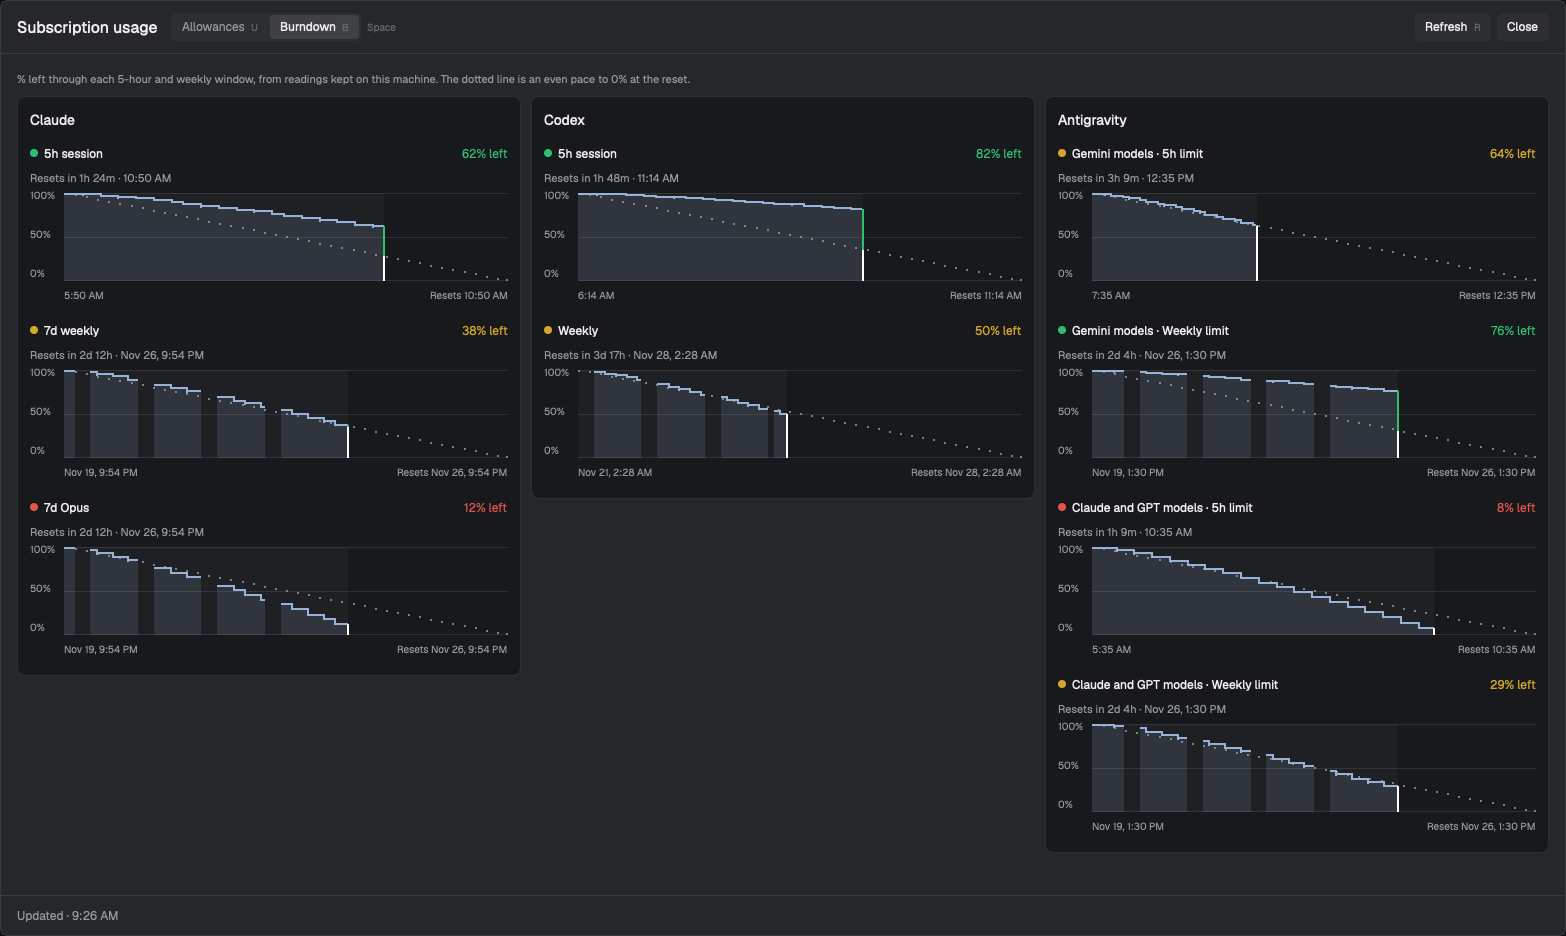
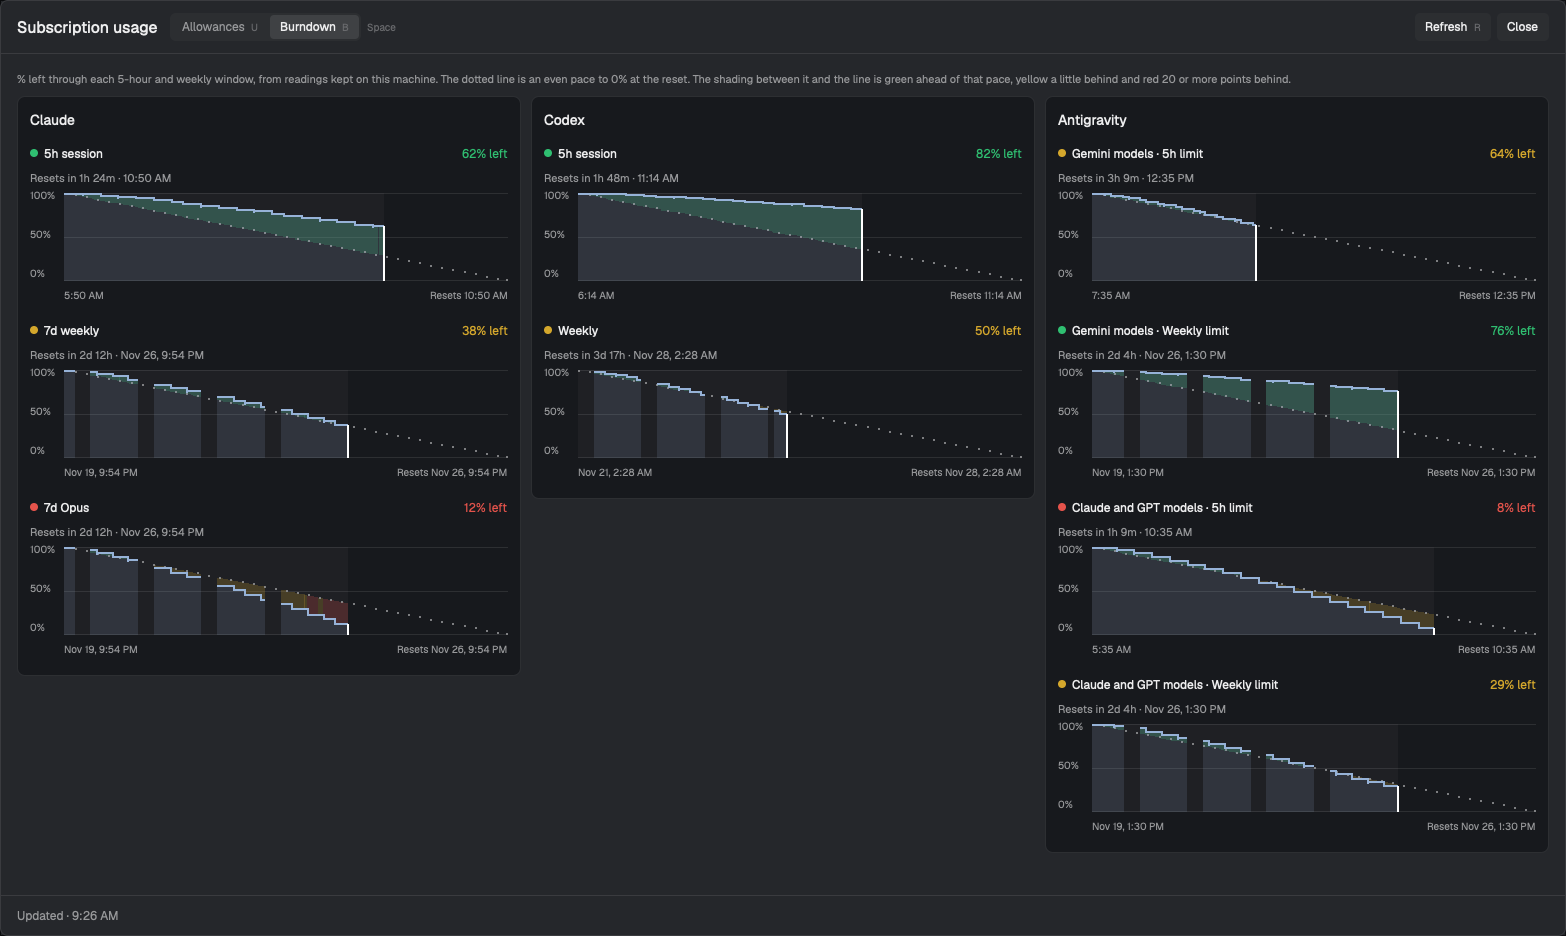
Shade the gap to an even pace in the burndown charts
Each chart now shades the area between the allowance line and the dotted
even-pace line across the time gone: green where allowance was ahead of
pace, yellow where it was less than 20 points behind, and red where it was
20 or more behind, the same margin as the traffic lights. Before, only the
current-time marker showed spare allowance, in green, and a shortfall
showed nothing. The marker is now plain white.

The README screenshot and the gallery preview's Burndown card are
re-rendered from the same sample readings and 9:26 AM clock, so only the
plots change.

diff --git a/herdr-app/mods/usage-monitor/burndown.js b/herdr-app/mods/usage-monitor/burndown.js
@@ -1,12 +1,13 @@
 // Burndown charts: % left over each 5-hour and weekly window, from the local history.
 //
 // GPUI has no paths, so the chart is boxes: a step line of 2px bars with a faint fill under it,
-// a dotted diagonal for an even pace from 100% at the window's start to 0% at its reset, a faint
-// tint over the time already gone, and a row of invisible columns that show the reading
-// and model activity under the pointer.
+// a dotted diagonal for an even pace from 100% at the window's start to 0% at its reset, a band
+// between the two that shades how far ahead or behind that pace each reading was, a faint tint
+// over the time already gone, and a row of invisible columns that show the reading and model
+// activity under the pointer.
 import { div } from "gpui-kit";
 import { h_flex, HoverCard, v_flex } from "gpui-base";
-import { light, lightColor } from "./pace.js";
+import { MARGIN, light, lightColor } from "./pace.js";
 import { localTime, timed } from "./time.js";
 
 const NAMES = {
@@ -22,6 +23,7 @@ const PACE_DOTS = 40;
 const COLUMNS = 48;
 // Narrowest a run is drawn, in % of the width, so a single reading still shows.
 const MIN_RUN = 0.4;
+const BAND_OPACITY = 0.22;
 
 const clamp = (value, lo, hi) => Math.max(lo, Math.min(hi, value));
 
@@ -76,6 +78,32 @@ function hoverColumns(t, b, activity, id, now) {
   });
 }
 
+// The gap between each reading and an even pace, shaded: green ahead of it, yellow a little
+// behind, red MARGIN or more points behind. Each run is cut at the hover columns' edges and
+// measured against the pace at each piece's middle, so the band steps down beside the dots.
+function gapBand(t, b, x, y) {
+  const span = b.end - b.start;
+  if (span <= 0) return [];
+  const slice = span / COLUMNS;
+  const boxes = [];
+  for (const [from, to, left] of b.runs) {
+    for (let i = Math.floor((from - b.start) / slice); b.start + i * slice < to; i += 1) {
+      const a = Math.max(from, b.start + i * slice);
+      const z = Math.min(to, b.start + (i + 1) * slice);
+      if (z <= a) continue;
+      const even = pace(b, (a + z) / 2);
+      const top = y(Math.max(left, even));
+      const height = y(Math.min(left, even)) - top;
+      if (height < 1) continue;
+      const spare = left - even;
+      const level = spare >= 0 ? "untapped" : spare > -MARGIN ? "pace" : "tight";
+      boxes.push(div().absolute().left(`${x(a)}%`).w(`${x(z) - x(a)}%`).top(top).h(height)
+        .bg(lightColor(t, level)).opacity(BAND_OPACITY));
+    }
+  }
+  return boxes;
+}
+
 function plot(t, b, activity, id, now) {
   const { x, y } = scale(b);
   const line = t.accent;
@@ -87,6 +115,7 @@ function plot(t, b, activity, id, now) {
   for (const level of [0, 50, 100]) {
     marks.push(div().absolute().left(0).w_full().h(1).top(Math.min(PLOT - 1, y(level))).bg(t.border));
   }
+  marks.push(...gapBand(t, b, x, y));
   for (let i = 0; i <= PACE_DOTS; i += 1) {
     const share = i / PACE_DOTS;
     marks.push(div().absolute().size(2).rounded_full().bg(t.muted)
@@ -108,11 +137,7 @@ function plot(t, b, activity, id, now) {
   if (now < b.end) {
     // A white line at the present, from the current % left down to the bottom of the plot.
     const top = y(b.left);
-    // The part above the even-pace line is allowance that would go unused at this pace: green.
-    const paceY = clamp(y(pace(b, now)), top, PLOT);
-    const at = `${x(now)}%`;
-    marks.push(div().absolute().left(at).top(top).h(PLOT - top).w(2).ml(-1).bg("#ffffff"));
-    if (paceY > top) marks.push(div().absolute().left(at).top(top).h(paceY - top).w(2).ml(-1).bg(lightColor(t, "untapped")));
+    marks.push(div().absolute().left(`${x(now)}%`).top(top).h(PLOT - top).w(2).ml(-1).bg("#ffffff"));
   }
   marks.push(...hoverColumns(t, b, activity, id, now));
   return div().relative().flex_1().min_w(0).h(PLOT).children(marks)

diff --git a/burndown.test.ts b/burndown.test.ts
@@ -7,6 +7,7 @@ function element() {
     openDelay: null as number | null,
     closeDelay: null as number | null,
     items: [] as unknown[],
+    calls: [] as unknown[][],
     id(name: string) { this.name = name; return this; },
     content(content: unknown) { this.cardContent = content; return this; },
     open_delay(ms: number) { this.openDelay = ms; return this; },
@@ -17,7 +18,8 @@ function element() {
   };
   return new Proxy(node, {
     get(target, key, receiver) {
-      return typeof key === "string" && !(key in target) ? () => receiver : Reflect.get(target, key, receiver);
+      if (typeof key !== "string" || key in target) return Reflect.get(target, key, receiver);
+      return (...args: unknown[]) => { target.calls.push([key, ...args]); return receiver; };
     },
   });
 }
@@ -37,6 +39,14 @@ function hoverCards(node: unknown): Element[] {
   const el = node as Element;
   return el.cardContent ? [el] : el.items.flatMap(hoverCards);
 }
+
+function elements(node: unknown): Element[] {
+  if (!node || typeof node !== "object") return [];
+  const el = node as Element;
+  return [el, ...el.items.flatMap(elements)];
+}
+
+const style = (el: Element, name: string) => el.calls.find(([key]) => key === name)?.[1];
 
 function labels(node: unknown): string[] {
   if (typeof node === "string") return [node];
@@ -87,4 +97,24 @@ test("labels an unstarted 100% window with Now on the left", () => {
   expect(text).toContain("100% left");
   expect(text[text.length - 2]).toBe("Now");
   expect(text[text.length - 1]).not.toBe("Now");
+});
+
+test("shades the gap to an even pace: green ahead, yellow a little behind, red well behind", () => {
+  const hour = 60 * 60_000;
+  const start = Date.parse("2026-11-23T00:00:00Z");
+  const end = start + 10 * hour;
+  const now = start + 5 * hour;
+  const series = {
+    provider: "codex", label: "Weekly", length: end - start, start, end,
+    left: 30, reset: new Date(end).toISOString(),
+    // Even pace is 95-100% over the first hour, 70-80% over the third, 50-60% over the fifth.
+    runs: [[start, start + hour, 100], [start + 2 * hour, start + 3 * hour, 70], [start + 4 * hour, now, 30]],
+  };
+  const [card] = burndownCards({}, [series], [], now);
+  const band = elements(card!.rows[0]).filter((el) => style(el, "opacity") === 0.22);
+  const colors = band.map((el) => style(el, "bg"));
+  expect([...new Set(colors)]).toEqual(["#2fbf71", "#d4a72c", "#e5534b"]);
+  // Nothing is shaded in the gaps between runs or after now.
+  const lefts = band.map((el) => Number.parseFloat(String(style(el, "left"))));
+  expect(lefts.every((at) => at < 10 || (at >= 20 && at < 30) || (at >= 40 && at < 50))).toBe(true);
 });

diff --git a/herdr-app/mods/usage-monitor/breakdown.js b/herdr-app/mods/usage-monitor/breakdown.js
@@ -206,7 +206,8 @@ function burndownView(t, state) {
     .map((c) => card(t, c.title, "", c.rows, c.weight));
   const intro = div().text_size(11).text_color(t.muted)
     .child("% left through each 5-hour and weekly window, from readings kept on this machine. "
-      + "The dotted line is an even pace to 0% at the reset.");
+      + "The dotted line is an even pace to 0% at the reset. The shading between it and the line is "
+      + "green ahead of that pace, yellow a little behind and red 20 or more points behind.");
   if (cards.length) return v_flex().gap(8).child(intro).child(columns(cards, state.width ?? 0));
   const note = state.historyError || (state.history
     ? "No readings yet. They're recorded each time allowances are read, every few minutes while Herdr is open."

diff --git a/README.md b/README.md
@@ -20,7 +20,7 @@ Claude Code · Codex · Antigravity · Cursor · GitHub Copilot · Grok · OpenC
 
 Press <kbd>B</kbd> (or <kbd>Space</kbd>, which toggles between the two views) to switch to the **Burndown** view, which charts how each limit has drained through its current window against an even pace (see [Burndown charts](#burndown-charts)):
 
-![Burndown charts for Claude, Codex and Antigravity. Faint shading extends from the start of each window to the current-time marker. Green segments above the dotted even-pace line show allowance that would go unused at the current pace.](docs/herdr-app-burndown.png)
+![Burndown charts for Claude, Codex and Antigravity. Faint shading extends from the start of each window to the current-time marker. Shading between each allowance line and the dotted even-pace line is green where allowance is ahead of pace and would go unused, yellow where it is a little behind, and red where it is 20 or more points behind.](docs/herdr-app-burndown.png)
 
 ## Quick start
 
@@ -56,7 +56,7 @@ Everything green is listed in the **Untapped allowance** panel at the top, soone
 
 ## Burndown charts
 
-Switch the breakdown to **Burndown** (press <kbd>B</kbd>, and <kbd>U</kbd> to go back, or <kbd>Space</kbd> to toggle) to see how each 5-hour and weekly limit has drained through its current window, from 100% at the start to the reset. Claude’s 7d Opus and 7d Sonnet limits have their own charts, and Antigravity shows one chart per 5-hour or weekly limit in each model group. A dotted line shows an even pace to 0% at the reset. Faint shading extends from the start of the window to the vertical marker at the current time, so you can see how far through the window you are. The marker’s green segment shows how much allowance is above the even pace and would go unused at the current pace. Hover a chart for the allowance reading. On Claude, Codex and Antigravity charts, the tooltip also lists models and reasoning efforts logged in that part of the timeline.
+Switch the breakdown to **Burndown** (press <kbd>B</kbd>, and <kbd>U</kbd> to go back, or <kbd>Space</kbd> to toggle) to see how each 5-hour and weekly limit has drained through its current window, from 100% at the start to the reset. Claude’s 7d Opus and 7d Sonnet limits have their own charts, and Antigravity shows one chart per 5-hour or weekly limit in each model group. A dotted line shows an even pace to 0% at the reset. Faint shading extends from the start of the window to the vertical marker at the current time, so you can see how far through the window you are. The area between the allowance line and the dotted line is shaded to show how far ahead or behind an even pace each reading was: green when ahead (allowance that would go unused at that pace), yellow when a little behind, and red when 20 or more points behind. Hover a chart for the allowance reading. On Claude, Codex and Antigravity charts, the tooltip also lists models and reasoning efforts logged in that part of the timeline.
 
 The charts come from readings kept on your machine, recorded each time allowances are read (every few minutes while Herdr is open), so they fill in from when you install this version. Time when Herdr was closed or the machine was asleep shows as a gap.
 

diff --git a/herdr-app/RECIPE.md b/herdr-app/RECIPE.md
@@ -60,8 +60,13 @@ burndown charts that show how fast each allowance is draining.
     opacity behind everything, so how far through it you are shows at a
     glance; the time still to come stays clear. At the current
     time, a 2px white marker extends from the remaining allowance to the
-    bottom of the plot. The part above the dotted line is green (`#2fbf71`)
-    to show allowance that would go unused at this pace.
+    bottom of the plot.
+  - Between the step line and the dotted line, a band at 22% opacity shades
+    each reading's gap to an even pace: green (`#2fbf71`) where it was ahead,
+    yellow (`#d4a72c`) where it was less than 20 points behind, red
+    (`#e5534b`) where it was 20 or more behind. Each run is cut at the 48ths
+    of the window and measured against the pace at each piece's middle, so
+    the band steps down beside the dots. Gaps in the readings stay clear.
   - Hovering the plot shows "3:40 PM · 62% left · even pace 55%" for that
     48th of the window. Claude and Codex tooltips also show the local model
     and reasoning effort combinations logged in that time slice.
